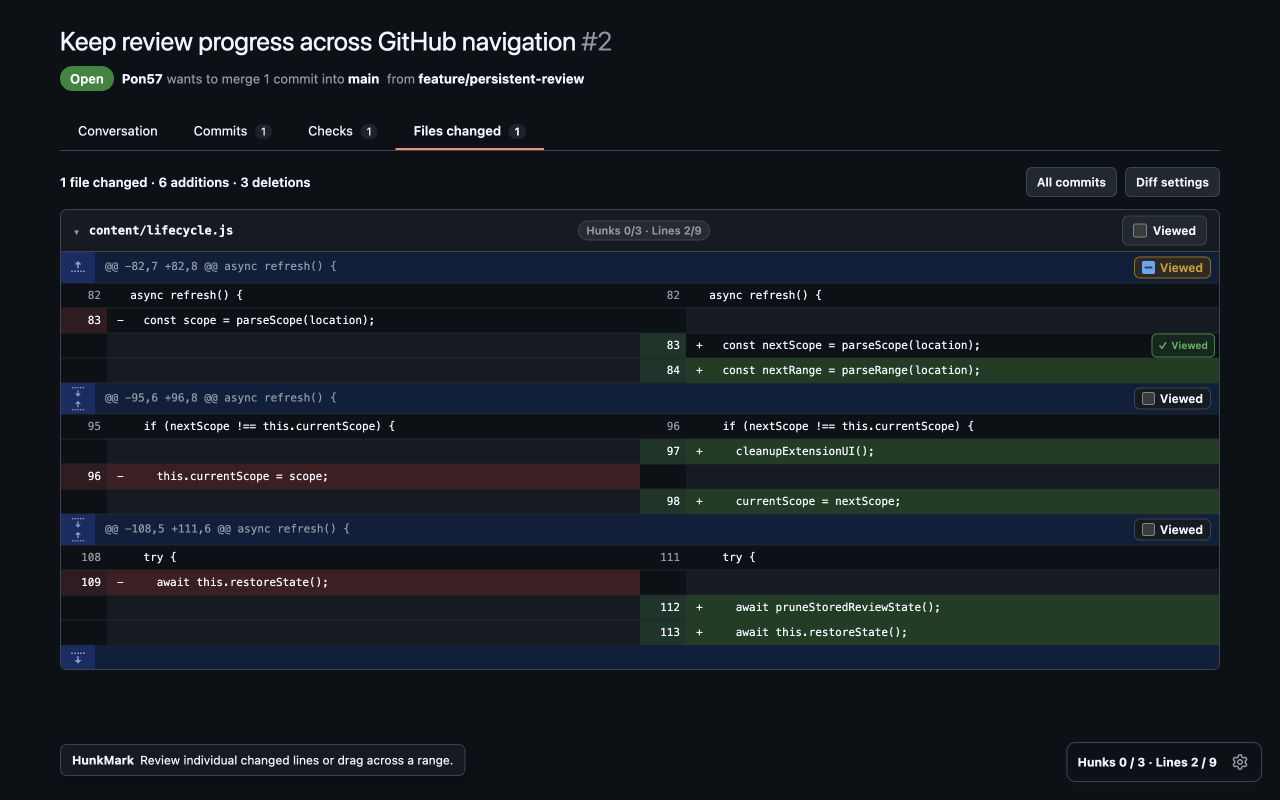
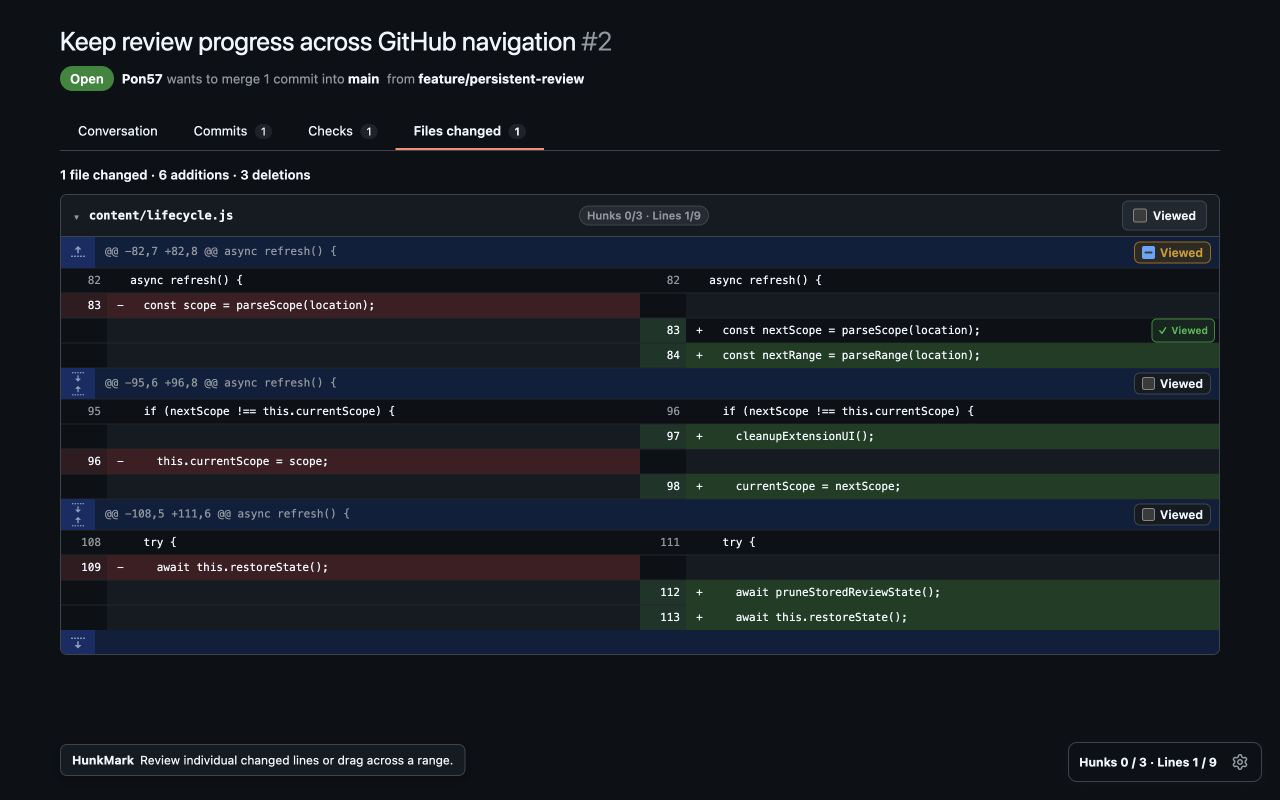
docs: simplify store screenshots

Changed region(s): [[0.0312, 0.1875, 0.9688, 0.8438], [0.8438, 0.9375, 0.9375, 0.9688]]

diff --git a/design/store-screenshot-capture.html b/design/store-screenshot-capture.html
@@ -154,11 +154,6 @@
         font-weight: 600;
       }
 
-      .toolbar-spacer {
-        flex: 1;
-      }
-
-      .toolbar-button,
       .file-button {
         align-items: center;
         background: #212830;
@@ -425,9 +420,6 @@
 
         <div class="toolbar">
           <div class="toolbar-summary">1 file changed · 6 additions · 3 deletions</div>
-          <div class="toolbar-spacer"></div>
-          <button class="toolbar-button" type="button">All commits</button>
-          <button class="toolbar-button" type="button" style="margin-left:8px">Diff settings</button>
         </div>
 
         <section class="js-file" data-file-path="content/lifecycle.js">
